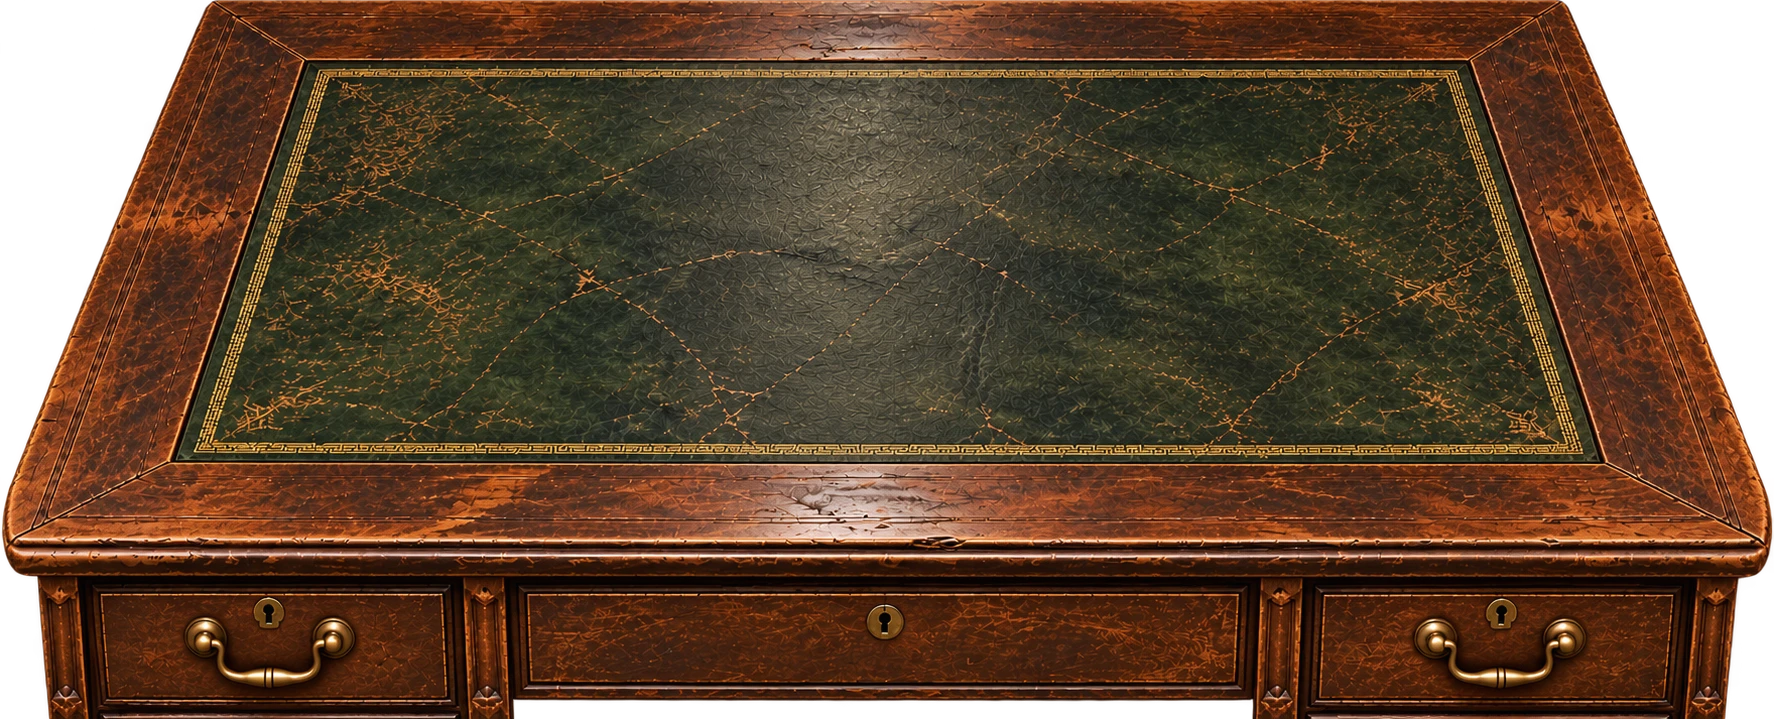
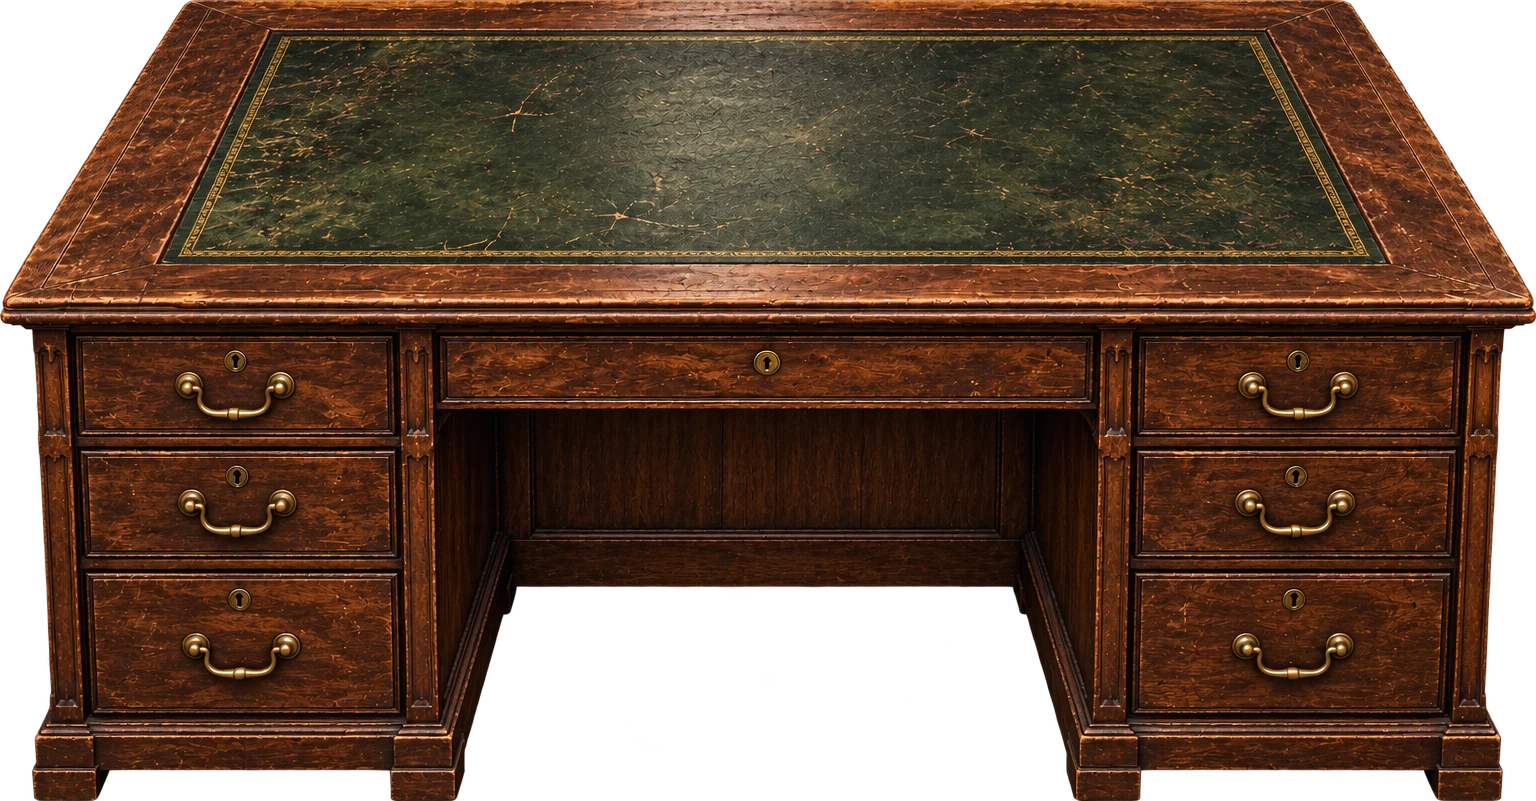
Testing Zone: new office desk and a working green desk lamp
The lamp has its own pull chain and lights the desk with a warm pool of light,
separate from the ceiling light and the city glow.

Claude-Session: https://claude.ai/code/session_013LCfUXWQD6NCZDVs8qittP

diff --git a/src/game/testing/panorama-viewer.tsx b/src/game/testing/panorama-viewer.tsx
@@ -20,6 +20,8 @@ in vec2 v; out vec4 o;
 uniform sampler2D t; uniform float yaw, pitch, tanHalf, aspect, fade;
 // Box rooms: half width, half depth, ceiling and floor heights relative to the eye; and the room light.
 uniform float boxOn, light, lightStrength; uniform vec4 box; uniform vec3 lightPos, lightCol;
+// A second light (a desk lamp): its light goes mostly down from under its shade.
+uniform float lamp, lampStrength; uniform vec3 lampPos, lampCol;
 // Rooms lit in code: the light map (r = moonlight, g = inside the room), the night level and the moon.
 uniform sampler2D lm; uniform float lmOn, moonLevel; uniform vec3 ambient, moonCol;
 const float PI = 3.14159265359;
@@ -35,7 +37,7 @@ void main(){
   vec4 lmv = lmOn > 0.5 ? texture(lm, vec2(u, vv)) : vec4(0.);
   float inside = lmOn > 0.5 ? lmv.g : 1.;
   vec3 bulb = vec3(0.);
-  if (boxOn > 0.5 && light > 0.001) {
+  if (boxOn > 0.5 && (light > 0.001 || lamp > 0.001)) {
     // Where this ray meets the box, and which way that surface faces.
     float tx = abs(w.x) > 1e-5 ? (w.x > 0. ? box.x : -box.x) / w.x : 1e9;
     float tz = abs(w.z) > 1e-5 ? (w.z > 0. ? box.y : -box.y) / w.z : 1e9;
@@ -56,6 +58,14 @@ void main(){
       halo = 1.6 * exp(-r2 * 18.) + 0.35 * exp(-r2 * 3.);
     }
     bulb = light * lightCol * (lightStrength * lam * att * emit + 0.25 + halo);
+    if (lamp > 0.001) {
+      vec3 K = lampPos - pt; float kd = length(K);
+      float klam = max(dot(n, K / kd), 0.);
+      float kdown = clamp(-K.y / kd, 0., 1.);
+      // The shade: almost nothing goes up or sideways; a little warm bounce fills the room.
+      float shade = kdown * kdown * kdown;
+      bulb += lamp * lampCol * (lampStrength * klam * shade / (1. + 9. * kd * kd) + 0.07);
+    }
   }
   if (lmOn > 0.5) {
     // Blue channel: how open this spot is (darker in corners and where surfaces meet).
@@ -120,6 +130,7 @@ export function PanoramaViewer({ rooms, start, title }: { rooms: TestRoom[]; sta
     token: object;
     box?: [number, number, number, number];
     light?: { pos: [number, number, number]; color: [number, number, number]; strength: number };
+    lamp?: { pos: [number, number, number]; color: [number, number, number]; strength: number; pool?: NonNullable<TestRoom["lamp"]>["pool"] };
   }>({ eye: 0.5, list: [], token: {} });
   const lmTexRef = useRef<WebGLTexture | null>(null);
   /** The room's code lighting, when it has a light map. */
@@ -127,6 +138,7 @@ export function PanoramaViewer({ rooms, start, title }: { rooms: TestRoom[]; sta
   const moonLevel = useRef(1);
   /** 0 = off, 1 = on; animated, so the bulb can flicker when switched on. */
   const lightLevel = useRef(0);
+  const lampLevel = useRef(0);
   const gyro = useRef<{ on: boolean; heading0: number | null; yaw0: number }>({ on: false, heading0: null, yaw0: 0 });
   const busy = useRef(false);
   const readoutRef = useRef<HTMLSpanElement>(null);
@@ -139,6 +151,7 @@ export function PanoramaViewer({ rooms, start, title }: { rooms: TestRoom[]; sta
   const [showPos, setShowPos] = useState(false);
   const [webglFailed, setWebglFailed] = useState(false);
   const [lightOn, setLightOn] = useState(false);
+  const [lampOn, setLampOn] = useState(false);
   const [moonOn, setMoonOn] = useState(true);
 
   const room = rooms.find((r) => r.id === roomId) ?? rooms[0];
@@ -175,7 +188,7 @@ export function PanoramaViewer({ rooms, start, title }: { rooms: TestRoom[]; sta
     gl.texParameteri(gl.TEXTURE_2D, gl.TEXTURE_MIN_FILTER, gl.LINEAR);
     gl.texParameteri(gl.TEXTURE_2D, gl.TEXTURE_MAG_FILTER, gl.LINEAR);
     gl.texImage2D(gl.TEXTURE_2D, 0, gl.RGB, 1, 1, 0, gl.RGB, gl.UNSIGNED_BYTE, new Uint8Array([0, 0, 0]));
-    const u = Object.fromEntries(["t", "yaw", "pitch", "tanHalf", "aspect", "fade", "boxOn", "light", "lightStrength", "box", "lightPos", "lightCol", "lm", "lmOn", "moonLevel", "ambient", "moonCol"].map((n) => [n, gl.getUniformLocation(prog, n)]));
+    const u = Object.fromEntries(["t", "yaw", "pitch", "tanHalf", "aspect", "fade", "boxOn", "light", "lightStrength", "box", "lightPos", "lightCol", "lm", "lmOn", "moonLevel", "ambient", "moonCol", "lamp", "lampStrength", "lampPos", "lampCol"].map((n) => [n, gl.getUniformLocation(prog, n)]));
     const lmTex = gl.createTexture()!;
     gl.bindTexture(gl.TEXTURE_2D, lmTex);
     gl.texParameteri(gl.TEXTURE_2D, gl.TEXTURE_WRAP_S, gl.REPEAT);
@@ -210,9 +223,10 @@ export function PanoramaViewer({ rooms, start, title }: { rooms: TestRoom[]; sta
     const quad = (c: number[][]) =>
       new Float32Array([...c[0], 0, 1, ...c[1], 1, 1, ...c[2], 0, 0, ...c[3], 1, 0]);
     const drawProps = (v: View, tanHalf: number, aspect: number) => {
-      const { eye, list, light } = propsRef.current;
+      const { eye, list, light, lamp } = propsRef.current;
       const lv = light ? lightLevel.current : 0;
-      if (!list.length && !lv) return;
+      const kv = lamp ? lampLevel.current : 0;
+      if (!list.length && !lv && !kv) return;
       gl.useProgram(sprog);
       gl.bindVertexArray(svao);
       gl.bindBuffer(gl.ARRAY_BUFFER, sbuf);
@@ -268,12 +282,38 @@ export function PanoramaViewer({ rooms, start, title }: { rooms: TestRoom[]; sta
           const add = light.color.map((c) => lv * c * (light.strength * lam * att + 0.35));
           m = LT.on ? (m.map((x, i) => x + add[i] * 0.3) as [number, number, number]) : (add.map((x) => 1 + x) as [number, number, number]);
         }
+        if (lamp && kv > 0.001) {
+          // The lamp warms whatever sits near and below it; the pool of light on the desk is drawn separately.
+          const cx = p.x, cy = floor - (p.sink ?? 0) + p.height * 0.6, cz = p.z;
+          const d = Math.hypot(lamp.pos[0] - cx, lamp.pos[1] - cy, lamp.pos[2] - cz) || 1;
+          const add = lamp.color.map((c) => kv * c * (lamp.strength * 0.35 / (1 + 9 * d * d) + 0.07));
+          m = m.map((x, i) => x + add[i] * (LT.on ? 1 : 2)) as [number, number, number];
+        }
         if (LT.on) {
           // A little moonlight on it, and its own brightness, since cutouts come in darker than the room's plain light.
           m = m.map((x, i) => (x + LT.moon[i] * 0.12 * moonLevel.current) * (p.gain ?? 1)) as [number, number, number];
         }
         gl.uniform3f(su.mul, m[0], m[1], m[2]);
         gl.drawArrays(gl.TRIANGLE_STRIP, 0, 4);
+      }
+      // The lamp's warm pool of light on the desk, added on top, centered on its base point.
+      if (lamp?.pool && kv > 0.001) {
+        const P = lamp.pool;
+        const d = Math.hypot(P.x, P.z) || 1;
+        const fx = P.x / d, fz = P.z / d, rx = -fz, rz = fx;
+        const hw = P.width / 2, b = floor + P.lift - P.height / 2;
+        gl.bufferData(gl.ARRAY_BUFFER, quad([
+          [P.x - rx * hw, b, P.z - rz * hw],
+          [P.x + rx * hw, b, P.z + rz * hw],
+          [P.x - rx * hw, b + P.height, P.z - rz * hw],
+          [P.x + rx * hw, b + P.height, P.z + rz * hw],
+        ]), gl.DYNAMIC_DRAW);
+        gl.blendFunc(gl.ONE, gl.ONE);
+        gl.uniform1f(su.shadow, 0);
+        gl.uniform1f(su.glow, kv * P.strength);
+        gl.uniform3f(su.glowCol, lamp.color[0], lamp.color[1], lamp.color[2]);
+        gl.drawArrays(gl.TRIANGLE_STRIP, 0, 4);
+        gl.blendFunc(gl.SRC_ALPHA, gl.ONE_MINUS_SRC_ALPHA);
       }
       // The bulb itself: a soft glow at the light, added on top.
       if (light && lv > 0.001) {
@@ -332,6 +372,12 @@ export function PanoramaViewer({ rooms, start, title }: { rooms: TestRoom[]; sta
       gl.activeTexture(gl.TEXTURE0);
       gl.uniform1f(u.light, R.light ? lightLevel.current : 0);
       if (R.box) gl.uniform4f(u.box, R.box[0], R.box[1], R.box[2], R.box[3]);
+      gl.uniform1f(u.lamp, R.lamp ? lampLevel.current : 0);
+      if (R.lamp) {
+        gl.uniform3f(u.lampPos, R.lamp.pos[0], R.lamp.pos[1], R.lamp.pos[2]);
+        gl.uniform3f(u.lampCol, ...R.lamp.color);
+        gl.uniform1f(u.lampStrength, R.lamp.strength);
+      }
       if (R.light) {
         gl.uniform3f(u.lightPos, R.light.pos[0], R.light.pos[1], R.light.pos[2]);
         gl.uniform3f(u.lightCol, ...R.light.color);
@@ -386,11 +432,14 @@ export function PanoramaViewer({ rooms, start, title }: { rooms: TestRoom[]; sta
       token,
       box: r.eye != null ? [(r.size?.[0] ?? 1.5) / 2, (r.size?.[1] ?? 1.5) / 2, 1 - eye, -eye] : undefined,
       light: r.light ? { pos: [r.light.x, r.light.y - eye, r.light.z], color: r.light.color, strength: r.light.strength } : undefined,
+      lamp: r.lamp ? { pos: [r.lamp.x, r.lamp.y - eye, r.lamp.z], color: r.lamp.color, strength: r.lamp.strength, pool: r.lamp.pool } : undefined,
     };
     lightLevel.current = 0;
+    lampLevel.current = 0;
     moonLevel.current = 1;
     queueMicrotask(() => {
       setLightOn(false);
+      setLampOn(false);
       setMoonOn(true);
     });
     lit.current = { on: false, ambient: r.ambient ?? [1, 1, 1], moon: r.moon ?? [1, 1, 1] };
@@ -570,7 +619,8 @@ export function PanoramaViewer({ rooms, start, title }: { rooms: TestRoom[]; sta
     (spot: TestHotspot) => {
       if (busy.current) return;
       if (spot.kind === "switch") {
-        flipLight();
+        if (spot.target === "lamp") flipLamp();
+        else flipLight();
         return;
       }
       if (spot.kind === "inspect") {
@@ -622,7 +672,7 @@ export function PanoramaViewer({ rooms, start, title }: { rooms: TestRoom[]; sta
               className="group absolute -translate-x-1/2 -translate-y-1/2"
             >
               <span className={`block h-9 w-9 rounded-full border-2 ${h.kind === "exit" ? "border-paper/80" : "border-brass/80"} bg-black/30 shadow-[0_0_18px_rgba(0,0,0,0.8)] backdrop-blur-[1px] transition group-hover:scale-110`}>
-                <span className="grid h-full w-full place-items-center text-sm">{h.kind === "exit" ? "➜" : h.kind === "switch" ? (lightOn ? "●" : "○") : "?"}</span>
+                <span className="grid h-full w-full place-items-center text-sm">{h.kind === "exit" ? "➜" : h.kind === "switch" ? ((h.target === "lamp" ? lampOn : lightOn) ? "●" : "○") : "?"}</span>
               </span>
               <span className="absolute left-1/2 top-full mt-1 -translate-x-1/2 whitespace-nowrap rounded-[2px] bg-black/70 px-2 py-0.5 text-xs">{h.label}</span>
             </button>
@@ -696,6 +746,13 @@ export function PanoramaViewer({ rooms, start, title }: { rooms: TestRoom[]; sta
       if (k < 1) requestAnimationFrame(step);
     };
     requestAnimationFrame(step);
+  }
+
+  /** The desk lamp: a quick click on, no flicker. */
+  function flipLamp() {
+    const on = lampLevel.current < 0.5;
+    setLampOn(on);
+    lampLevel.current = on ? 1 : 0;
   }
 
   /** On with a short flicker, like an old bulb catching; off at once. */

diff --git a/src/game/testing/current-test.ts b/src/game/testing/current-test.ts
@@ -11,7 +11,7 @@ export type TestHotspot =
   | { kind: "exit"; id: string; yaw: number; pitch: number; label: string; to: string }
   | { kind: "inspect"; id: string; yaw: number; pitch: number; label: string; text: string; image?: string }
   /** Turns the room's ceiling light on and off. */
-  | { kind: "switch"; id: string; yaw: number; pitch: number; label: string };
+  | { kind: "switch"; id: string; yaw: number; pitch: number; label: string; target?: "ceiling" | "lamp" };
 
 /** A light drawn by the viewer in a box room (no extra artwork): position in room units, height above the floor (room height 1). */
 export type TestLight = { x: number; y: number; z: number; color: [number, number, number]; strength: number };
@@ -51,6 +51,11 @@ export type TestRoom = {
   eye?: number;
   props?: TestProp[];
   light?: TestLight;
+  /**
+   * A second light, like a desk lamp, with its own switch. Its light goes mostly down. "pool" is the warm patch it
+   * throws on the cutout under it (a desk): a soft glow placed like a cutout, at its base point and size.
+   */
+  lamp?: TestLight & { pool?: { x: number; z: number; lift: number; width: number; height: number; strength: number } };
   /** Box rooms: width and depth in room units (the height is 1). Defaults to 1.5 by 1.5. */
   size?: [number, number];
   /** Show the test button that hides and brings back the light from outside (the moon). */
@@ -88,9 +93,20 @@ export const CURRENT_TEST = {
       light: { x: 0, y: 0.96, z: 0, color: [1.0, 0.84, 0.64], strength: 8 },
       props: [
         // The desk, right in front of the chair: its far edge about 4 feet away, the near edge in your lap.
-        { id: "desk", image: "/testing/office/props/desk.webp", x: 0, z: -0.45, width: 1.075, height: 0.436, sink: 0.115, gain: 1.46 },
+        // The desk, its front about 5 feet in front of the chair: about 6 feet wide, the top about 2½ feet off the floor.
+        { id: "desk", image: "/testing/office/props/desk.webp", x: 0, z: -0.55, width: 0.667, height: 0.347, gain: 1.6 },
+        // The green banker's lamp, on the far left corner of the desktop (drawn just in front of the desk, at its scale).
+        { id: "lamp", image: "/testing/office/props/lamp.webp", x: -0.165, z: -0.54, width: 0.092, height: 0.094, sink: -0.3, gain: 1.5 },
       ],
-      hotspots: [{ kind: "switch", id: "office-switch", yaw: 157.5, pitch: 3.6, label: "Light switch" }],
+      // Under the lamp's shade, on the desk's far left corner; warm and focused.
+      lamp: {
+        x: -0.3, y: 0.4, z: -0.82, color: [1.0, 0.82, 0.5], strength: 2.5,
+        pool: { x: -0.07, z: -0.535, lift: 0.27, width: 0.36, height: 0.11, strength: 0.55 },
+      },
+      hotspots: [
+        { kind: "switch", id: "office-switch", yaw: 157.5, pitch: 3.6, label: "Light switch" },
+        { kind: "switch", id: "office-lamp", target: "lamp", yaw: -15, pitch: -10, label: "Desk lamp" },
+      ],
     },
   ] satisfies TestRoom[] as TestRoom[],
 };
